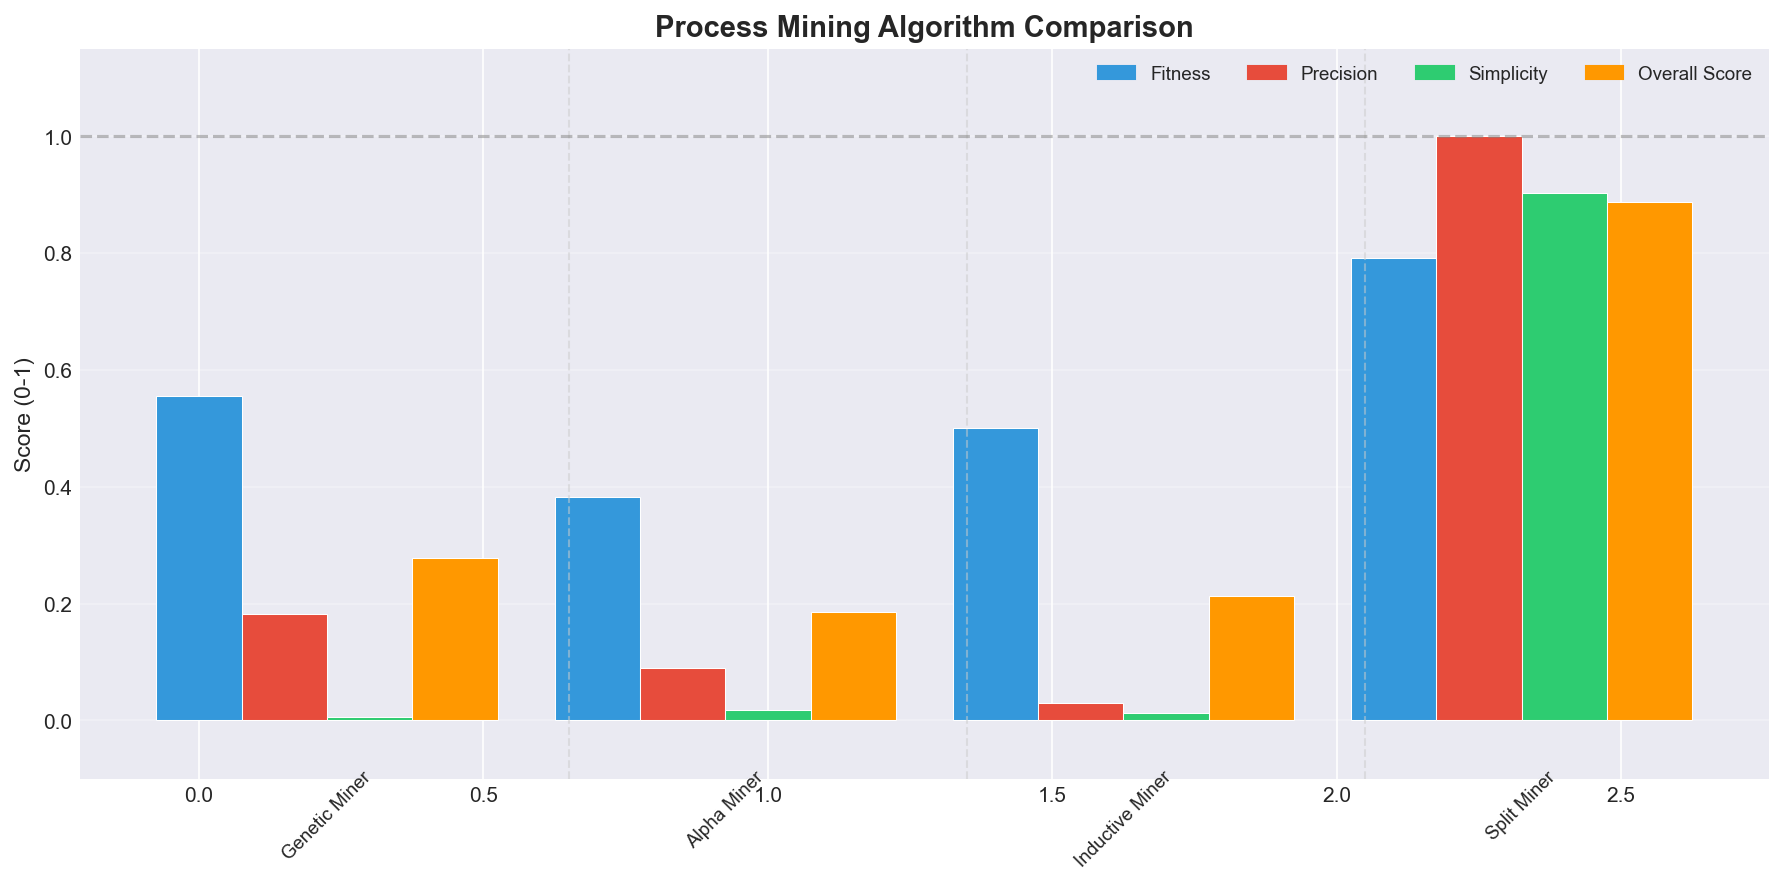
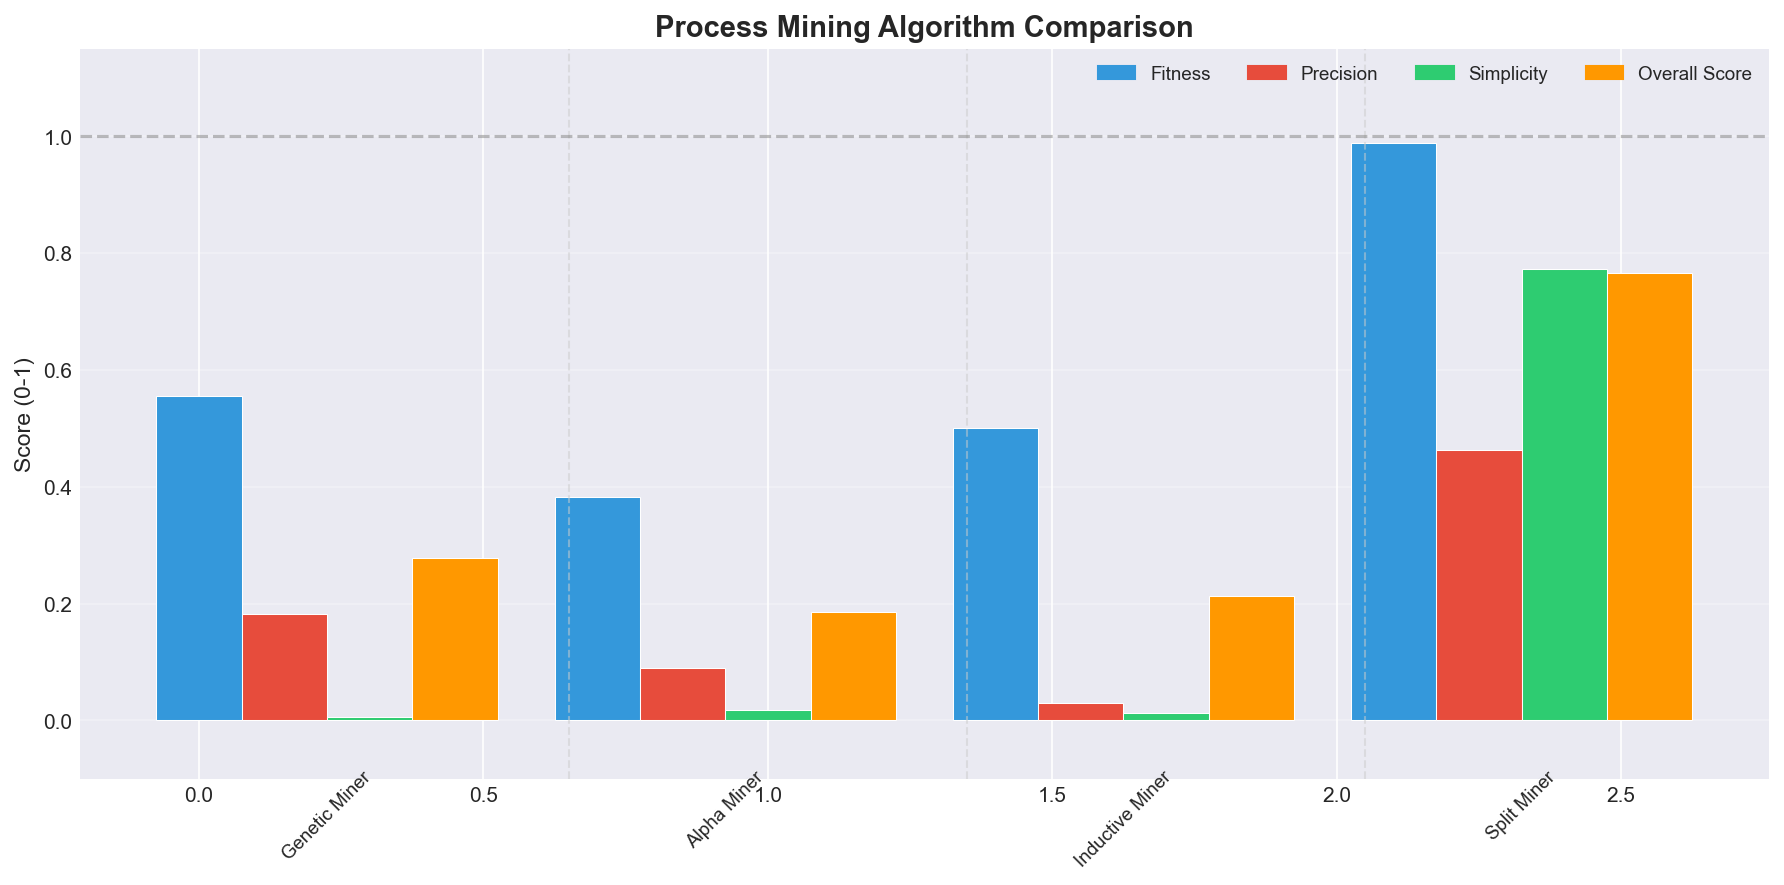
Latest comparison results

Changed region(s): [[0.7399, 0.1525, 0.9557, 0.5186]]

diff --git a/Compare/output/comparison_report.html b/Compare/output/comparison_report.html
@@ -24,13 +24,13 @@
 <body>
 <div class="header">
 <h1>Process Mining Algorithm Comparison Report</h1>
-<p>Generated: 2026-06-06 23:03:04</p>
+<p>Generated: 2026-06-06 23:21:22</p>
 </div>
 <div class="section">
 <h2>Executive Summary</h2>
 <div class="highlight">
-<p><strong>Best Fitness:</strong> Split Miner (0.7919)</p>
-<p><strong>Best Precision:</strong> Split Miner (1.0000)</p>
+<p><strong>Best Fitness:</strong> Split Miner (0.9880)</p>
+<p><strong>Best Precision:</strong> Split Miner (0.4634)</p>
 </div>
 </div>
 <div class="section">
@@ -62,9 +62,9 @@
 </tr>
 <tr>
 <td>Split Miner</td>
-<td>0.7919</td>
-<td>1.0000</td>
-<td>0.8838</td>
+<td>0.9880</td>
+<td>0.4634</td>
+<td>0.6309</td>
 </tr>
 </table>
 </div>
@@ -101,18 +101,18 @@
 </tr>
 <tr>
 <td>Split Miner</td>
-<td>26</td>
-<td>24</td>
-<td>79</td>
-<td>1.5800</td>
+<td>45</td>
+<td>61</td>
+<td>122</td>
+<td>1.1509</td>
 </tr>
 </table>
 </div>
 <div class="section">
 <h2>Best Performers</h2>
 <ul>
-<li><strong>Best Fitness:</strong> Split Miner with 0.7919</li>
-<li><strong>Best Precision:</strong> Split Miner with 1.0000</li>
+<li><strong>Best Fitness:</strong> Split Miner with 0.9880</li>
+<li><strong>Best Precision:</strong> Split Miner with 0.4634</li>
 <li><strong>Simplest Model:</strong> Alpha Miner with 12 places</li>
 </ul>
 </div>

diff --git a/Compare/output/comparison_table.html b/Compare/output/comparison_table.html
@@ -74,18 +74,18 @@ tr:hover { background-color: #ddd; }
 </tr>
 <tr>
 <td>Split Miner</td>
-<td>0.7919</td>
-<td>1.0000</td>
-<td>0.9022</td>
-<td>0.8874</td>
-<td>0.8838</td>
+<td>0.9880</td>
+<td>0.4634</td>
+<td>0.7730</td>
+<td>0.7661</td>
+<td>0.6309</td>
 <td>0</td>
 <td>0</td>
-<td>24</td>
-<td>26</td>
-<td>24</td>
-<td>79</td>
-<td>1.5800</td>
+<td>22</td>
+<td>45</td>
+<td>61</td>
+<td>122</td>
+<td>1.1509</td>
 </tr>
 </table>
 </body>

diff --git a/Compare/output/comparison_report.md b/Compare/output/comparison_report.md
@@ -1,11 +1,11 @@
 # Process Mining Algorithm Comparison Report
 
-**Generated:** 2026-06-06 23:03:04
+**Generated:** 2026-06-06 23:21:22
 
 ## Executive Summary
 
-**Best Fitness:** Split Miner (0.7919)
-**Best Precision:** Split Miner (1.0000)
+**Best Fitness:** Split Miner (0.9880)
+**Best Precision:** Split Miner (0.4634)
 
 ## Quality Metrics
 
@@ -14,7 +14,7 @@
 | Genetic Miner | 0.5549 | 0.1826 | 0.2748 |
 | Alpha Miner | 0.3826 | 0.0904 | 0.1462 |
 | Inductive Miner | 0.5014 | 0.0289 | 0.0547 |
-| Split Miner | 0.7919 | 1.0000 | 0.8838 |
+| Split Miner | 0.9880 | 0.4634 | 0.6309 |
 
 ## Model Structure
 
@@ -23,14 +23,14 @@
 | Genetic Miner | 75 | 26 | 147 |
 | Alpha Miner | 12 | 26 | 55 |
 | Inductive Miner | 21 | 38 | 76 |
-| Split Miner | 26 | 24 | 79 |
+| Split Miner | 45 | 61 | 122 |
 
 ## Rankings
 
 ### By Fitness
 | Rank | Algorithm | Fitness |
 |------|-----------|---------|
-| 1 | Split Miner | 0.7919 |
+| 1 | Split Miner | 0.9880 |
 | 2 | Genetic Miner | 0.5549 |
 | 3 | Inductive Miner | 0.5014 |
 | 4 | Alpha Miner | 0.3826 |
@@ -38,7 +38,7 @@
 ### By Precision
 | Rank | Algorithm | Precision |
 |------|-----------|-----------|
-| 1 | Split Miner | 1.0000 |
+| 1 | Split Miner | 0.4634 |
 | 2 | Genetic Miner | 0.1826 |
 | 3 | Alpha Miner | 0.0904 |
 | 4 | Inductive Miner | 0.0289 |
